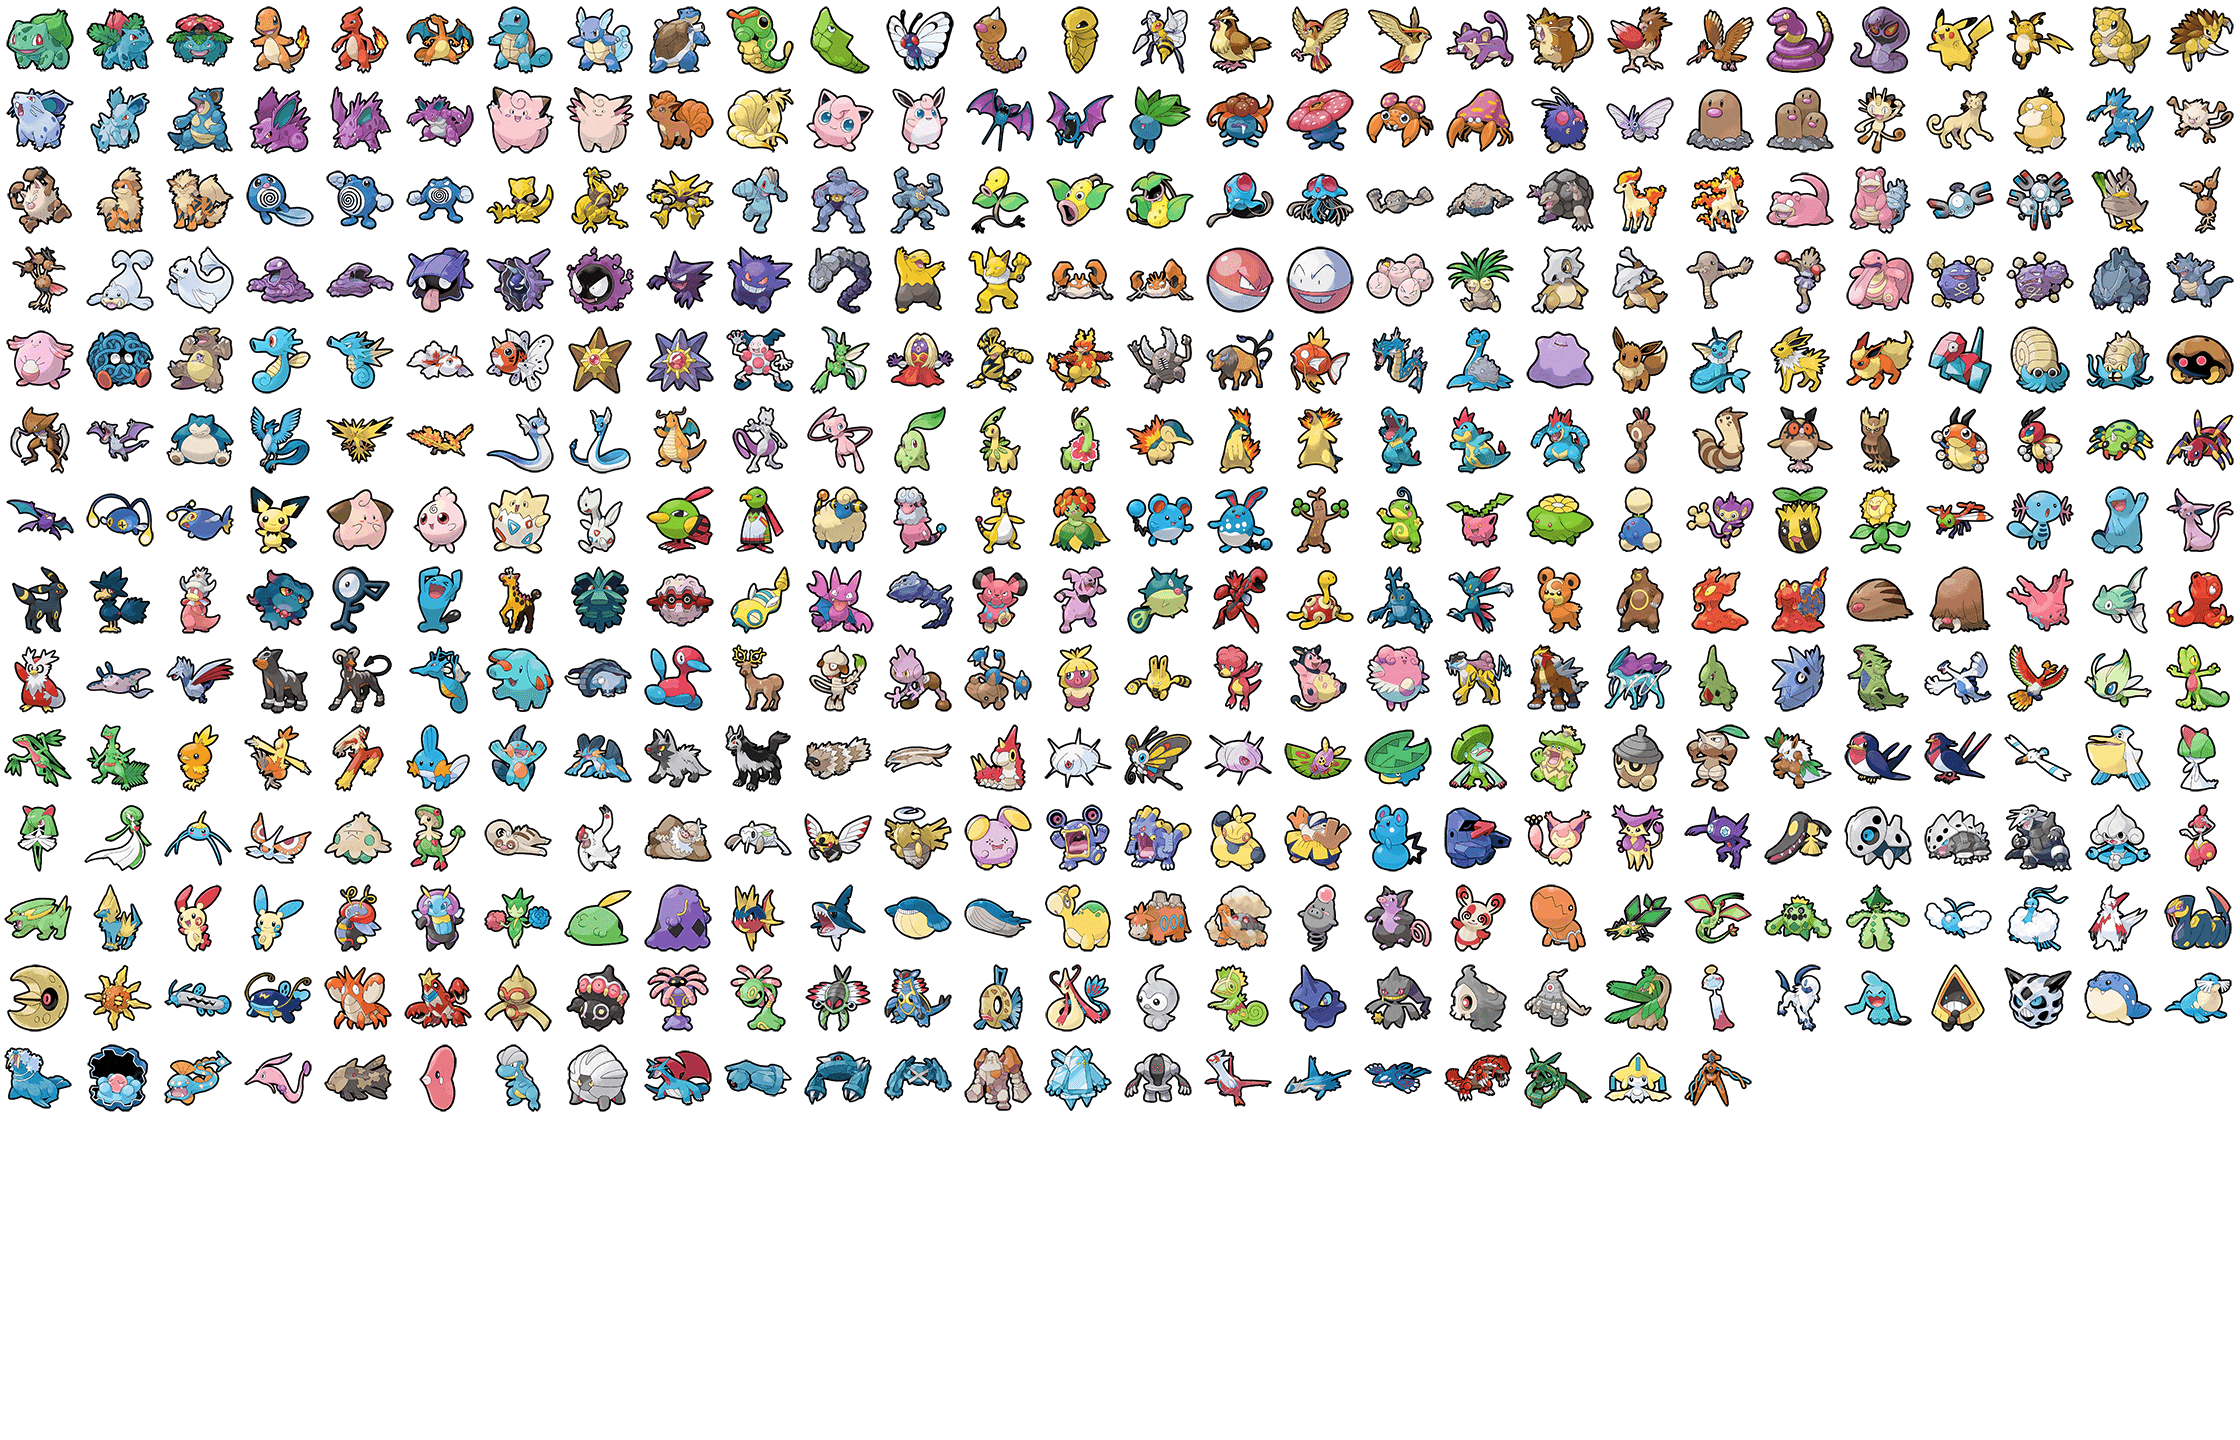
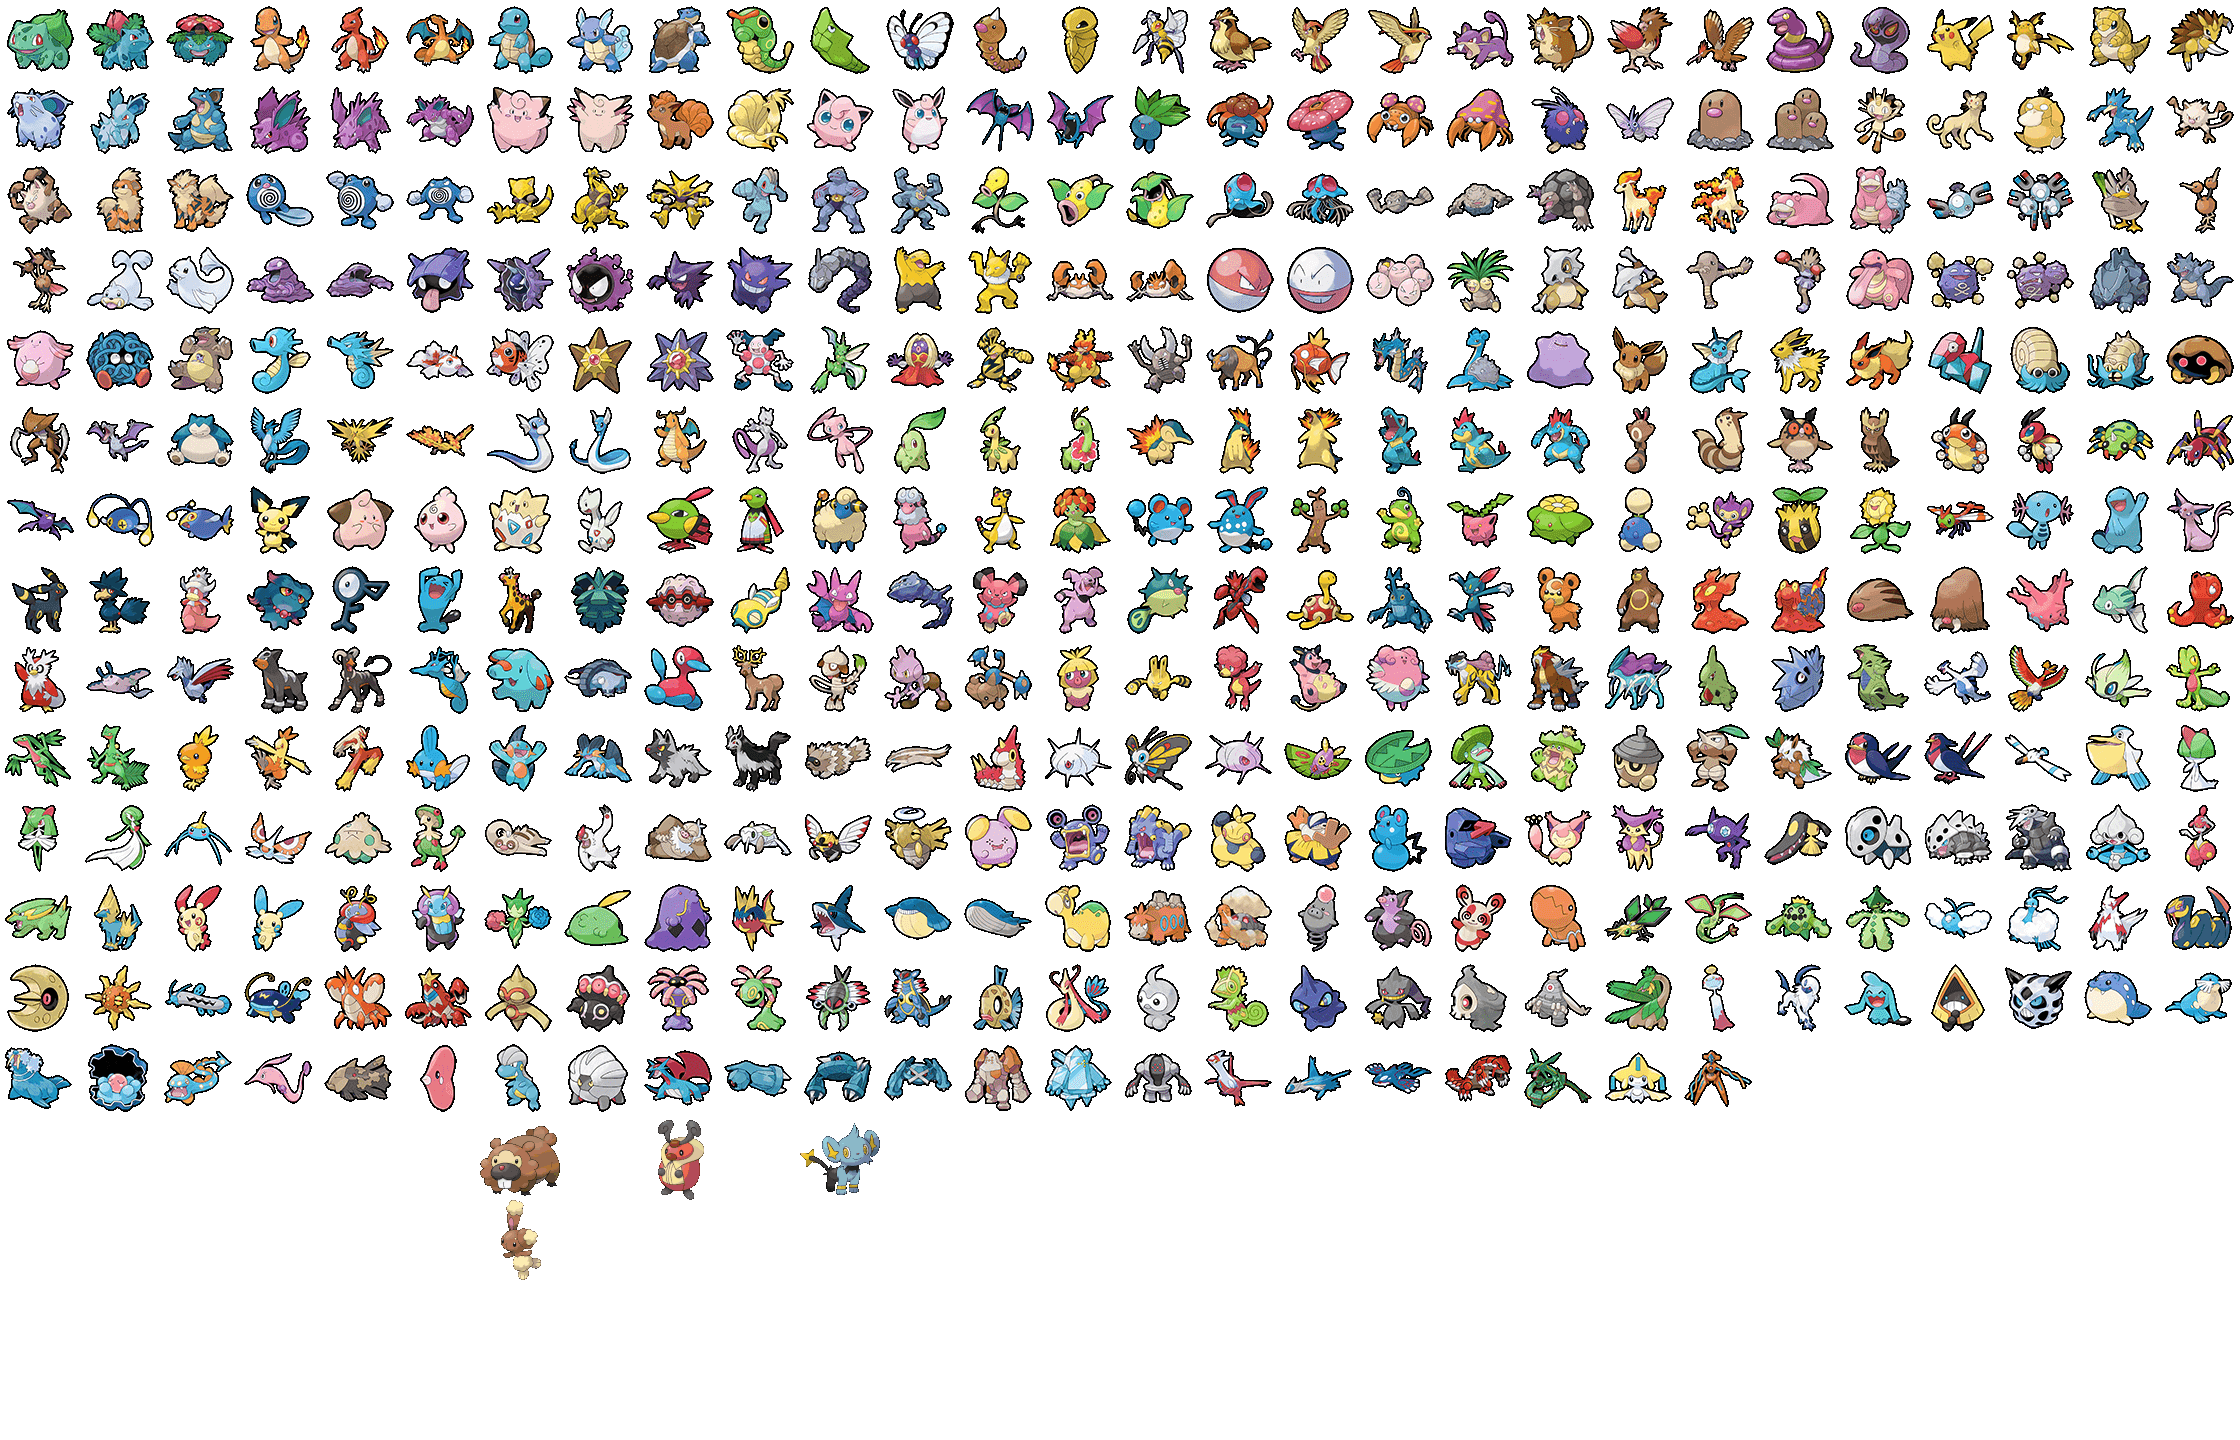
Add gen4 support

Changed region(s): [[0.2188, 0.7812, 0.25, 0.9062], [0.3438, 0.7812, 0.4062, 0.8438], [0.2812, 0.7812, 0.3125, 0.8438]]

diff --git a/static/js/map.js b/static/js/map.js
@@ -65,7 +65,7 @@ var buffer = []
 var reincludedPokemon = []
 var reids = []
 
-var numberOfPokemon = 386
+var numberOfPokemon = 493
 
 var map
 var rawDataIsLoading = false

diff --git a/static/sass/libs/_vars.scss b/static/sass/libs/_vars.scss
@@ -1,4 +1,4 @@
-$numberOfPokemon: 386;
+$numberOfPokemon: 493;
 $spriteLarge: "/static/icons-safe-1-bigger.png";
 // Root.
 :root {

diff --git a/pre-index.php b/pre-index.php
@@ -84,7 +84,7 @@ if ( $blockIframe ) {
             }
 
             if ( ! in_array( $k, $pokemonToExclude ) ) {
-                if ( $k > 386 ) {
+                if ( $k > 493 ) {
                     break;
                 }
                 echo "<span class='pokemon-icon-sprite' data-value='" . $k . "' onclick='$onClick'><span style='display:none' class='types'>" . i8ln( $type ) . "</span><span style='display:none' class='name'>" . i8ln( $name ) . "</span><span style='display:none' class='id'>$k</span><span class='$k inner-bg' style='background-position:-" . $i * 48.25 . "px -" . $z . "px'></span>";

diff --git a/search.php b/search.php
@@ -42,7 +42,7 @@ if ( $dbname !== '' ) {
         $mons = json_decode( $json, true );
         $resids = [];
         foreach($mons as $k => $mon){
-            if( $k > 386){
+            if( $k > 493){
                 break;
             }
             if(strpos($mon['name'], $term) !== false){
